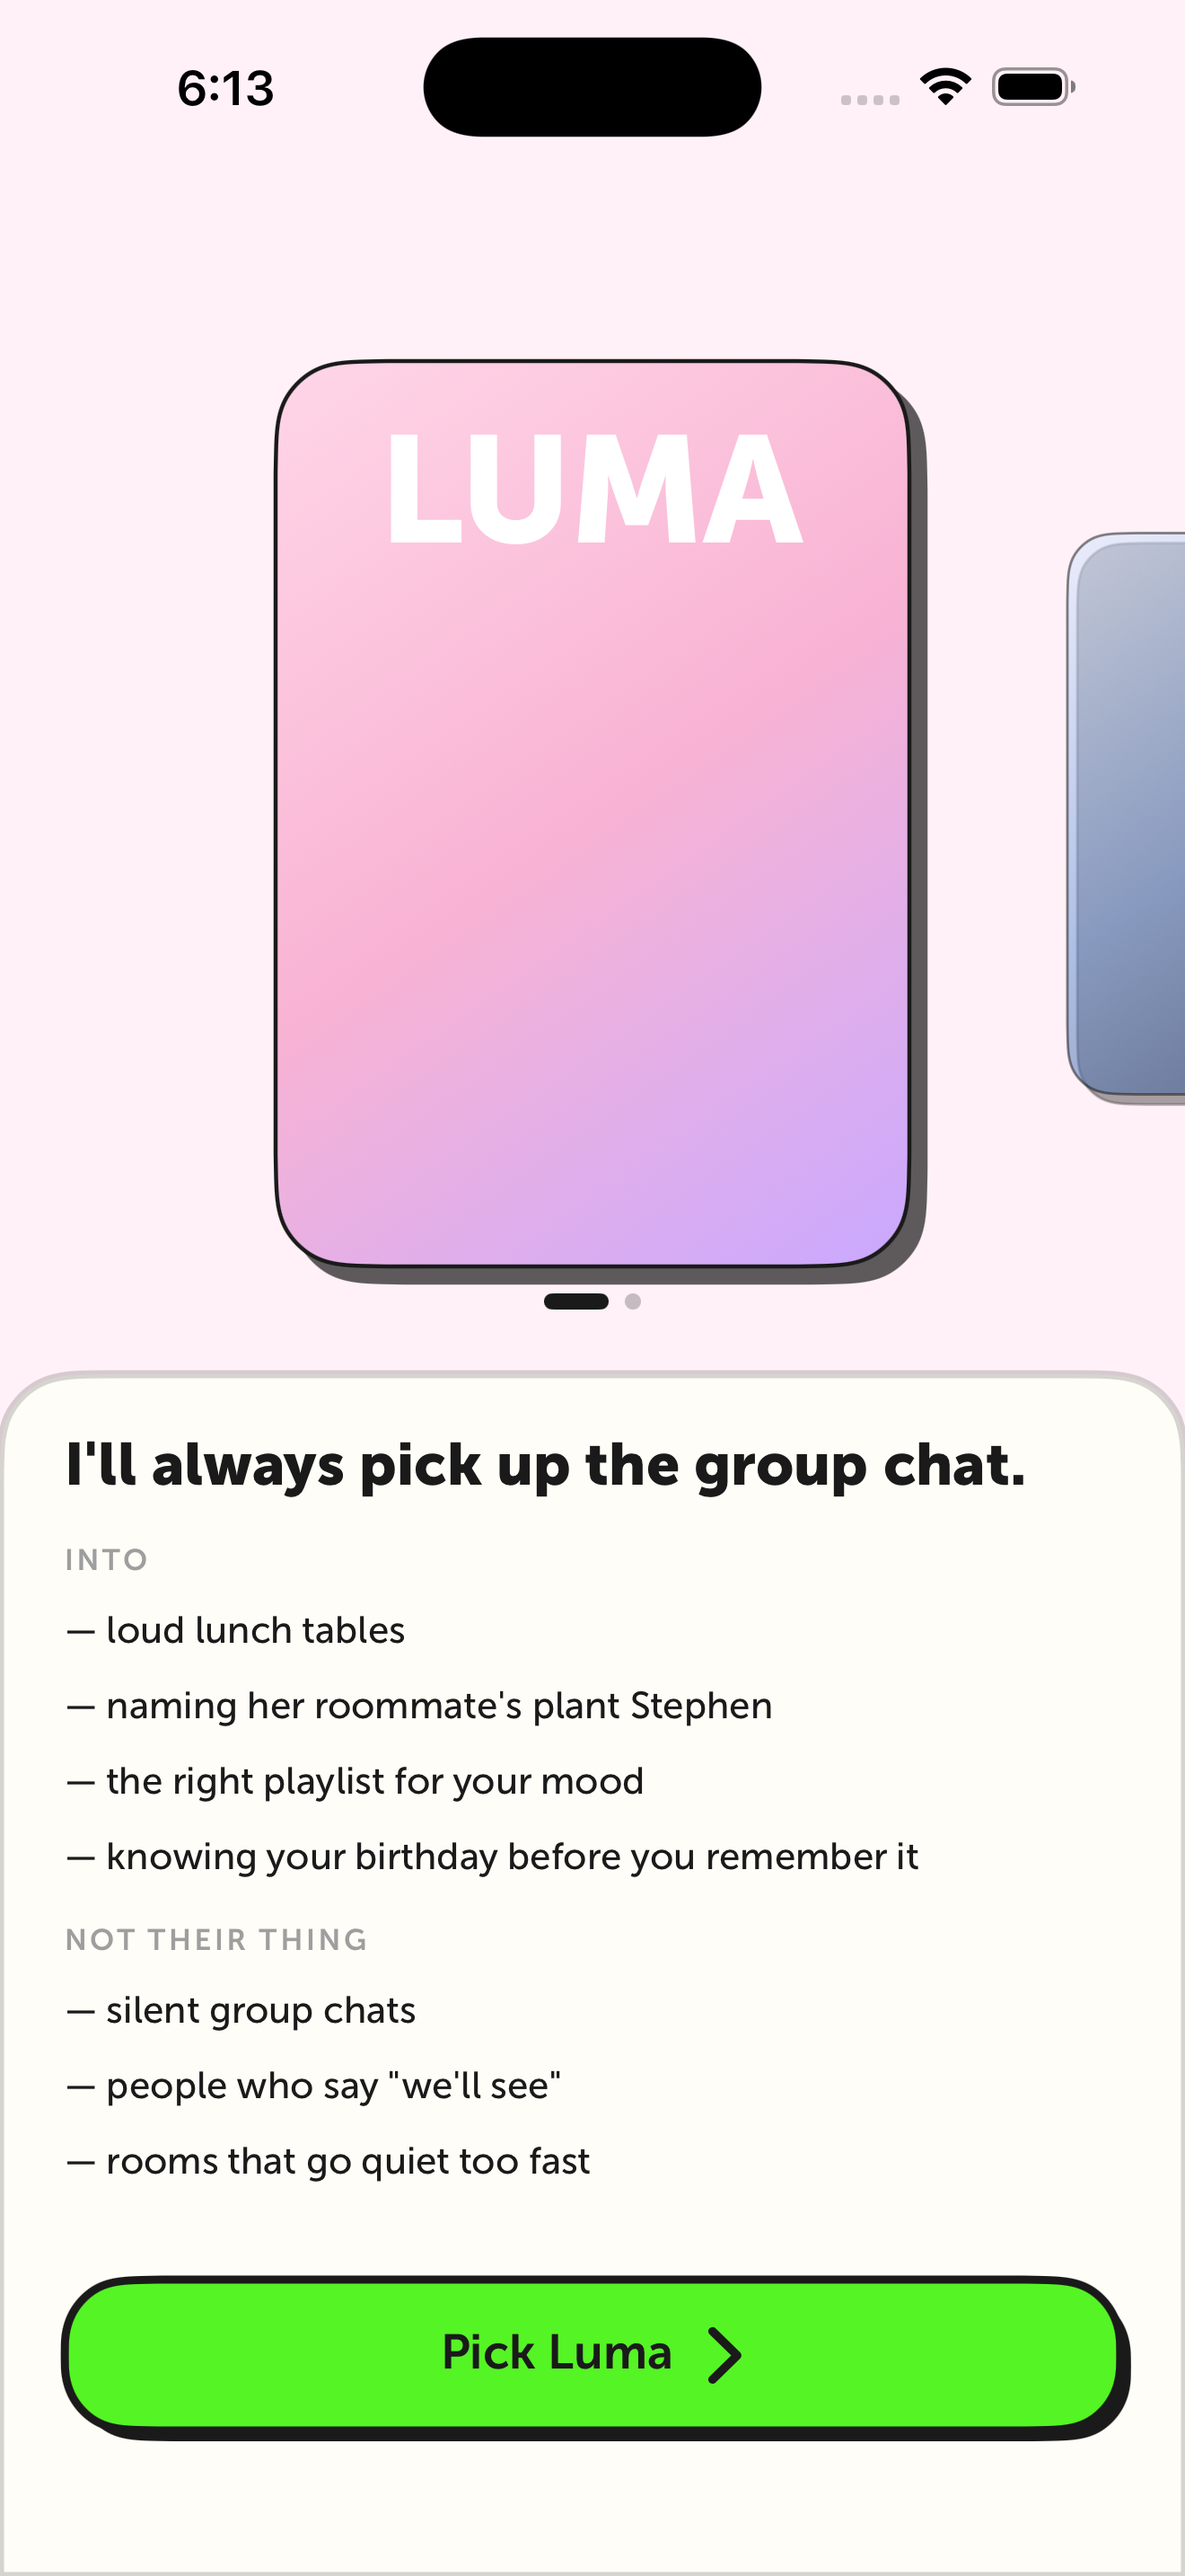
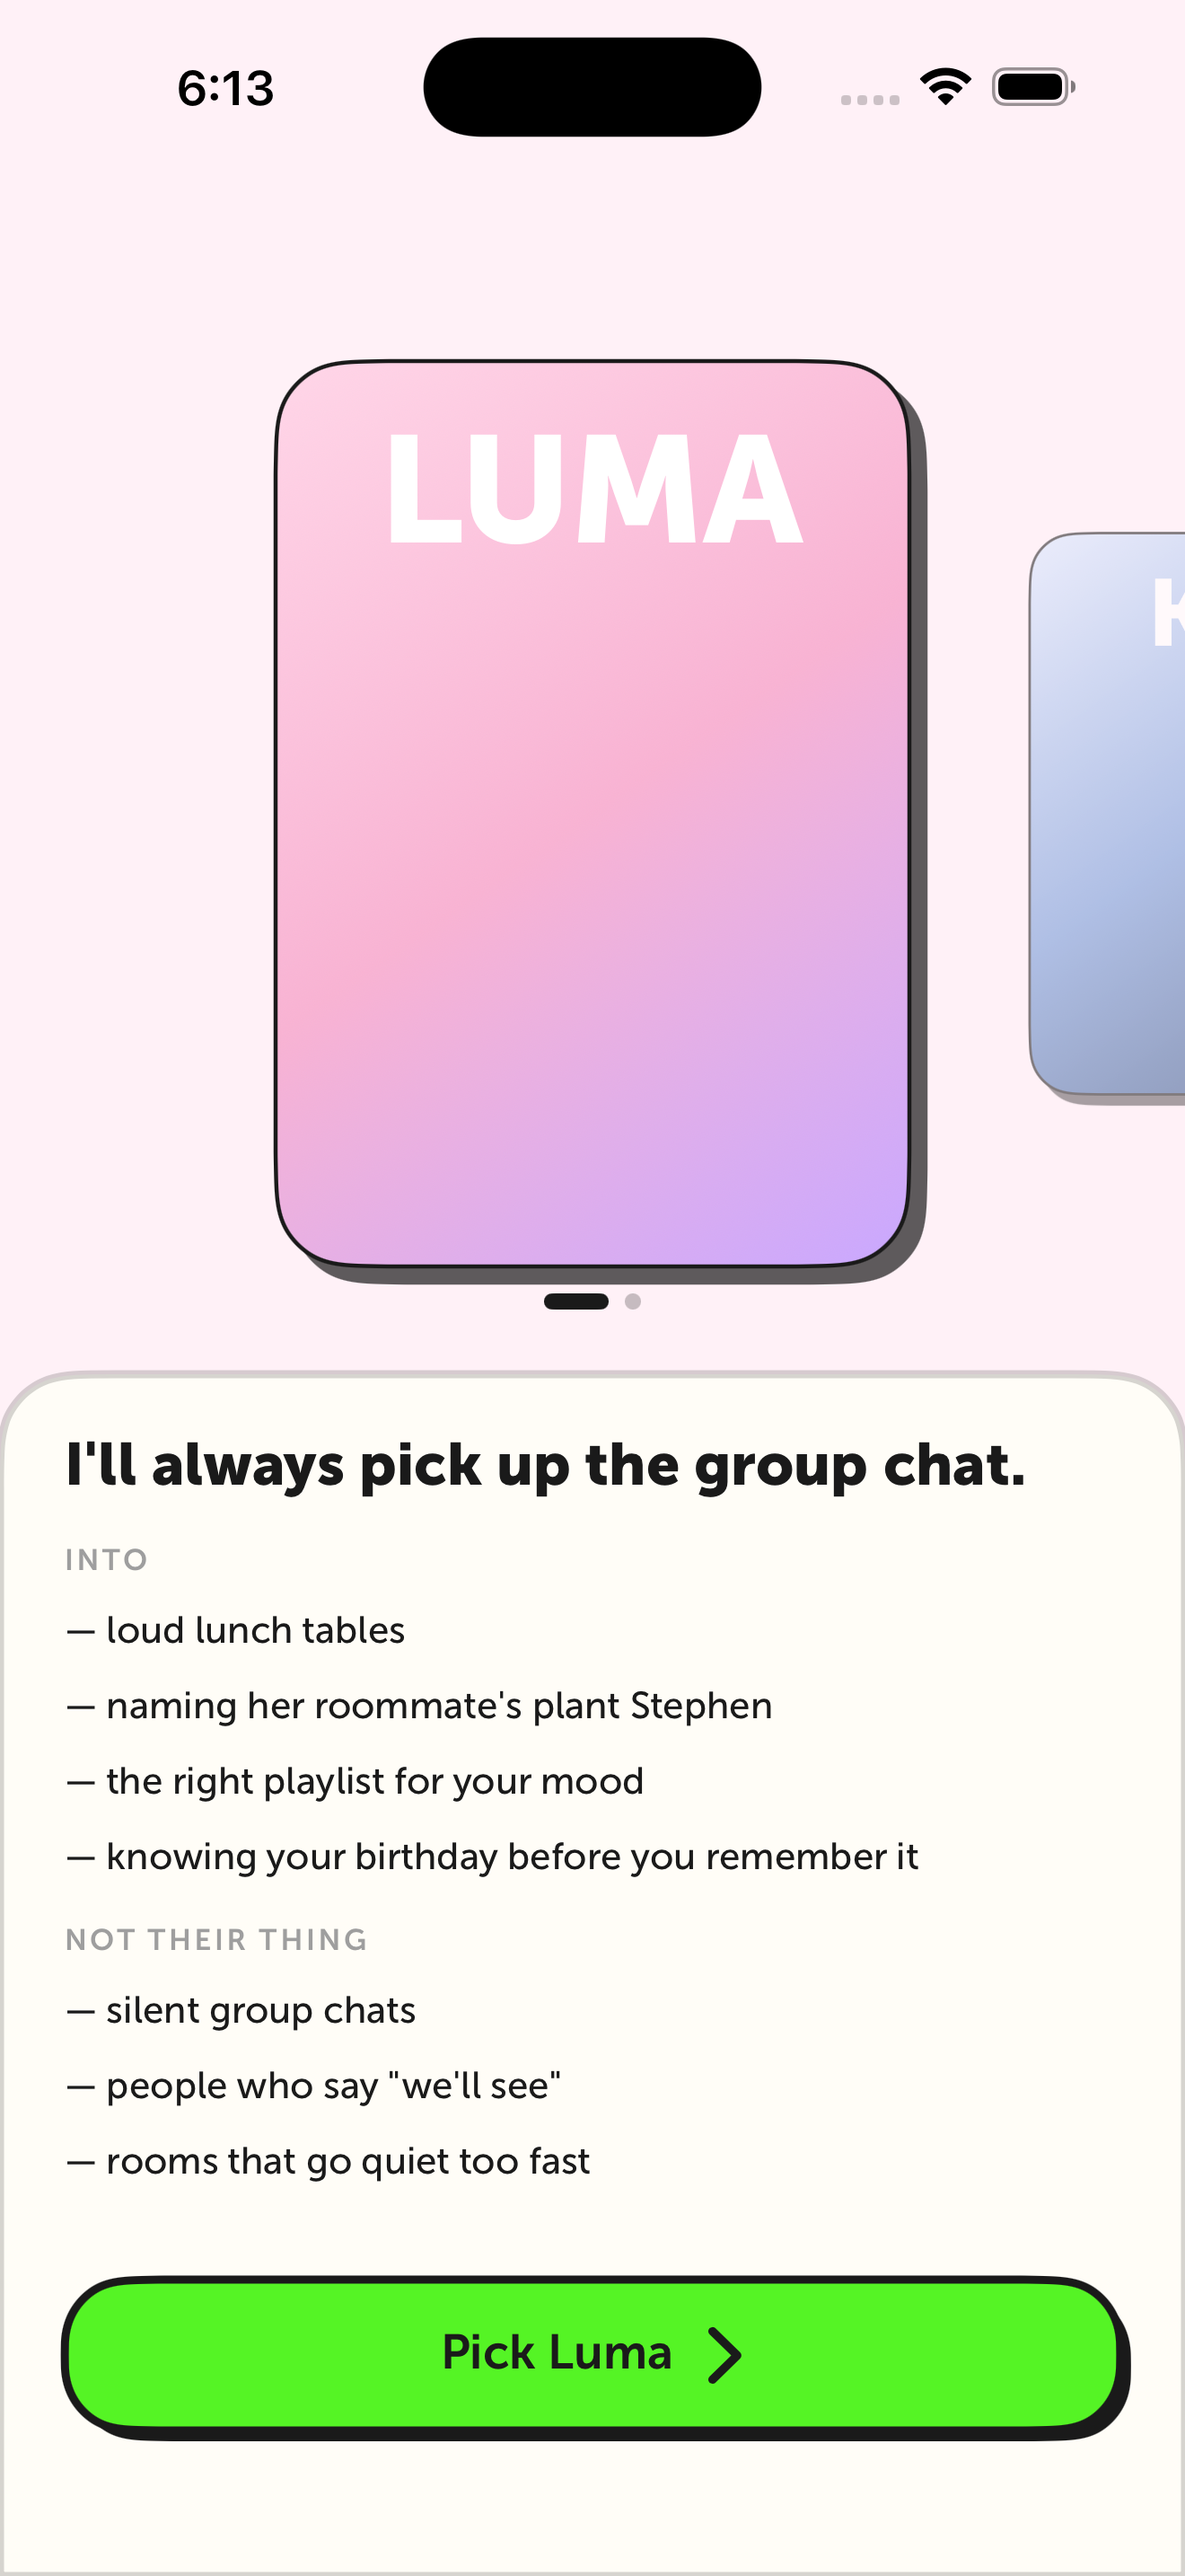
ALT-732: refresh shots after switching to ScrollView-driven cover flow

Changed region(s): [[0.8697, 0.1862, 1.0, 0.4344]]

diff --git a/character-picker/alt732-built-comparison.html b/character-picker/alt732-built-comparison.html
@@ -144,15 +144,15 @@
     <div class="frames">
       <div class="frame">
         <div class="frame-label">iPhone · compact</div>
-        <div class="frame-img"><img src="alt732-built-coverflow-iphone.png?v=2" alt="cover flow iPhone"></div>
+        <div class="frame-img"><img src="alt732-built-coverflow-iphone.png?v=3" alt="cover flow iPhone"></div>
       </div>
       <div class="frame">
         <div class="frame-label">iPad · portrait</div>
-        <div class="frame-img"><img src="alt732-built-coverflow-ipad-portrait.png?v=2" alt="cover flow iPad portrait"></div>
+        <div class="frame-img"><img src="alt732-built-coverflow-ipad-portrait.png?v=3" alt="cover flow iPad portrait"></div>
       </div>
       <div class="frame">
         <div class="frame-label">iPad · landscape (forced)</div>
-        <div class="frame-img"><img src="alt732-built-coverflow-ipad-landscape.png?v=2" alt="cover flow iPad landscape"></div>
+        <div class="frame-img"><img src="alt732-built-coverflow-ipad-landscape.png?v=3" alt="cover flow iPad landscape"></div>
       </div>
     </div>
 
@@ -180,15 +180,15 @@
     <div class="frames">
       <div class="frame">
         <div class="frame-label">iPhone · compact</div>
-        <div class="frame-img"><img src="alt732-built-herostatic-iphone.png?v=2" alt="hero static iPhone"></div>
+        <div class="frame-img"><img src="alt732-built-herostatic-iphone.png?v=3" alt="hero static iPhone"></div>
       </div>
       <div class="frame">
         <div class="frame-label">iPad · portrait</div>
-        <div class="frame-img"><img src="alt732-built-herostatic-ipad-portrait.png?v=2" alt="hero static iPad portrait"></div>
+        <div class="frame-img"><img src="alt732-built-herostatic-ipad-portrait.png?v=3" alt="hero static iPad portrait"></div>
       </div>
       <div class="frame">
         <div class="frame-label">iPad · landscape (forced)</div>
-        <div class="frame-img"><img src="alt732-built-herostatic-ipad-landscape.png?v=2" alt="hero static iPad landscape"></div>
+        <div class="frame-img"><img src="alt732-built-herostatic-ipad-landscape.png?v=3" alt="hero static iPad landscape"></div>
       </div>
     </div>
 
